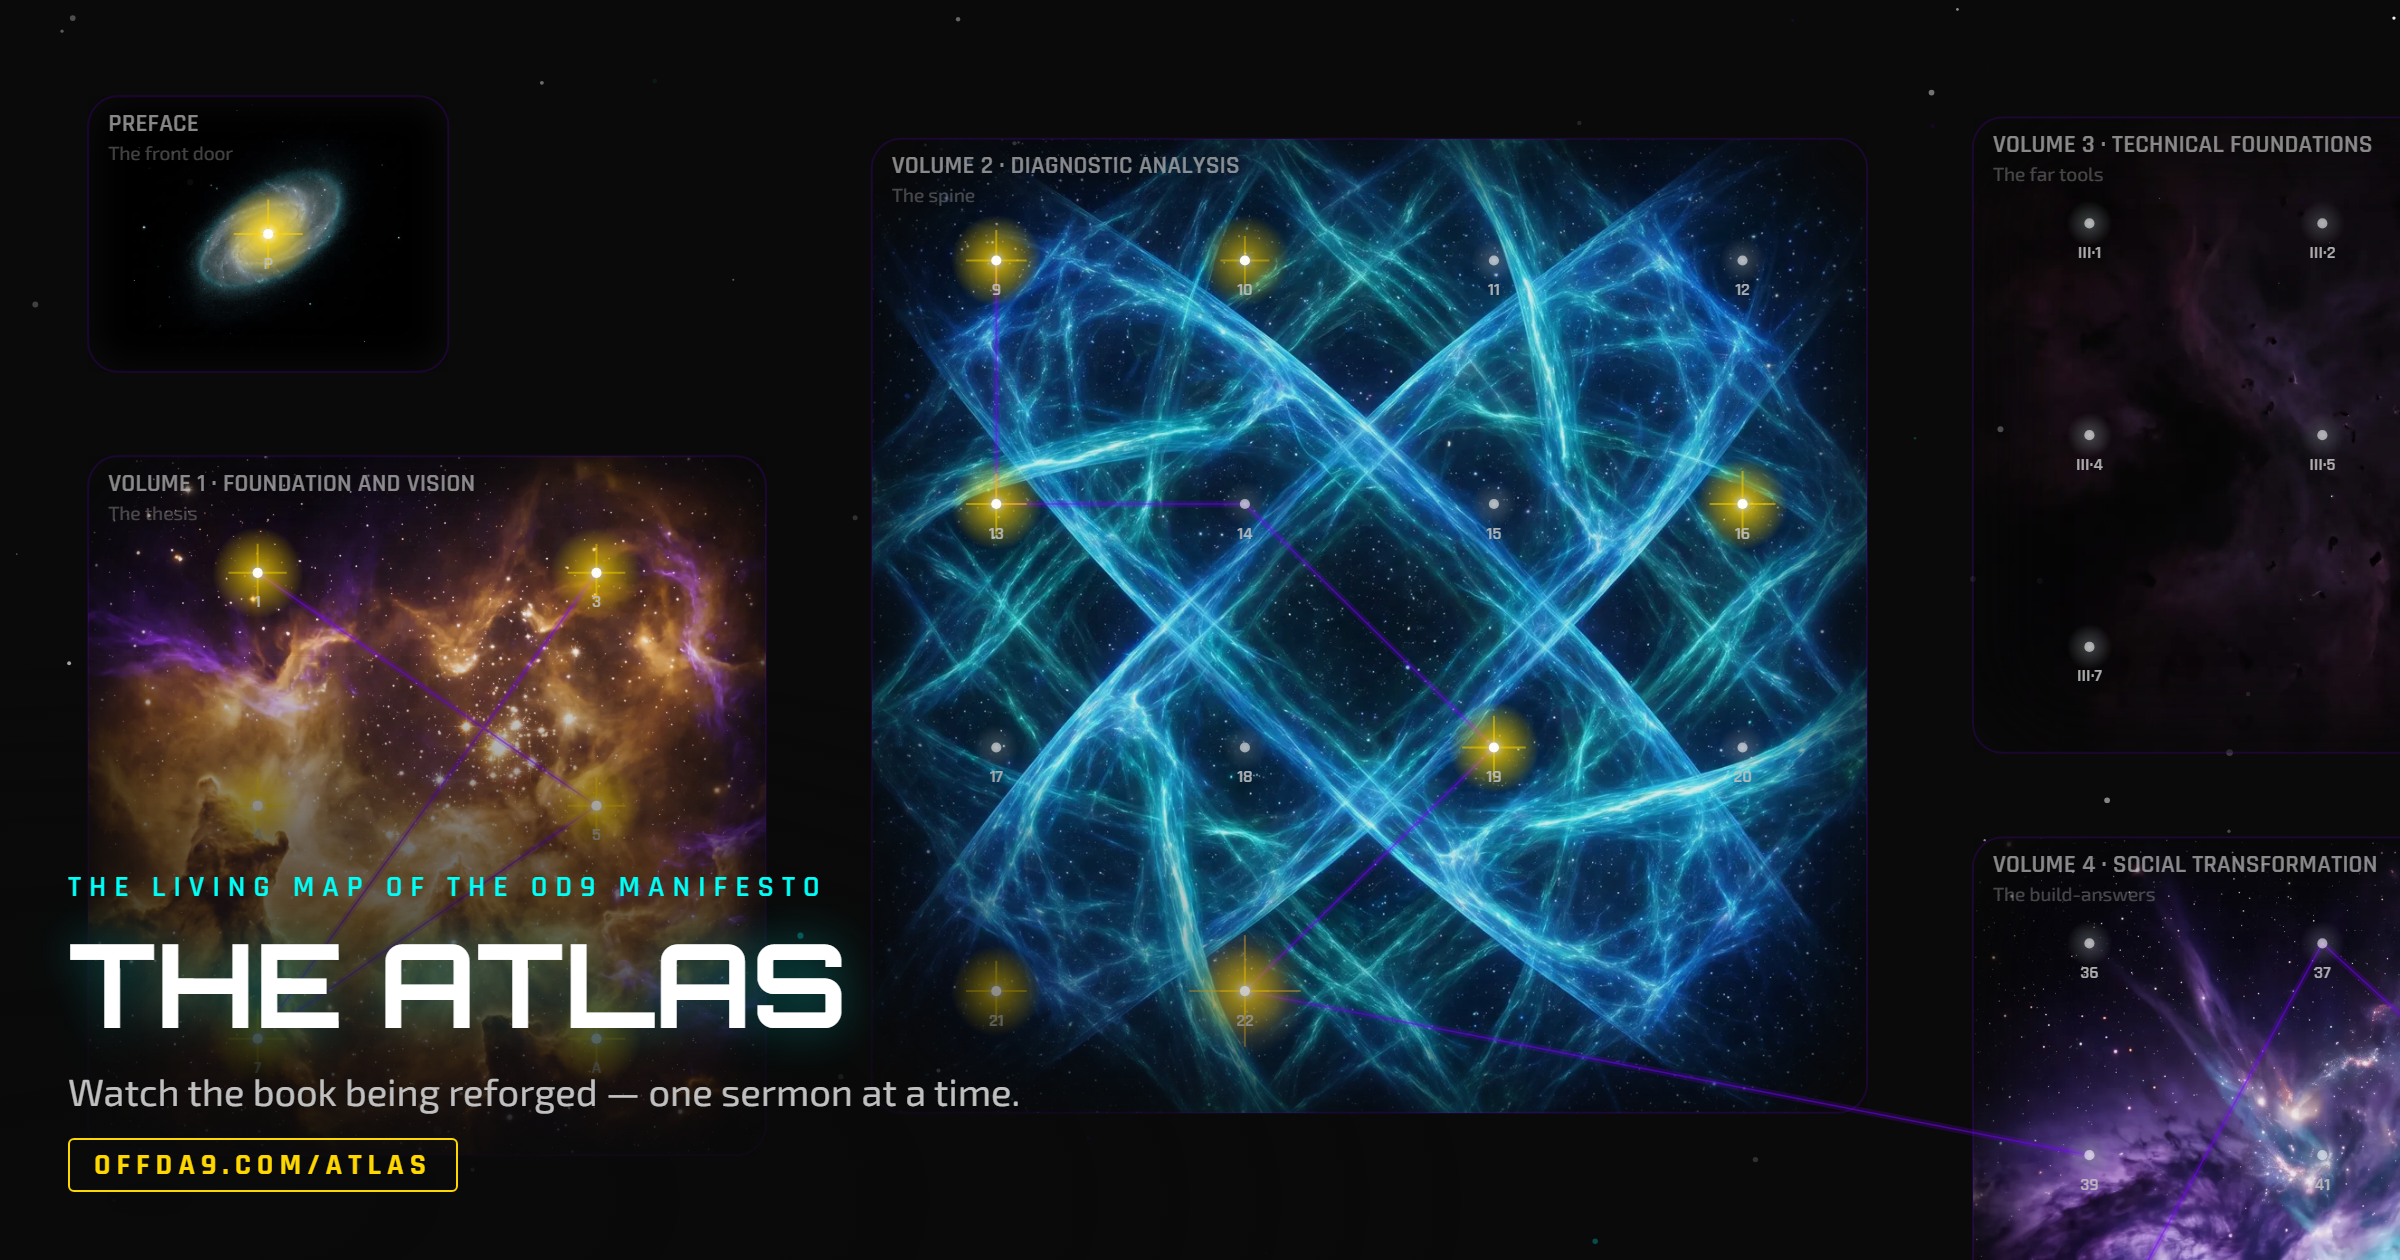
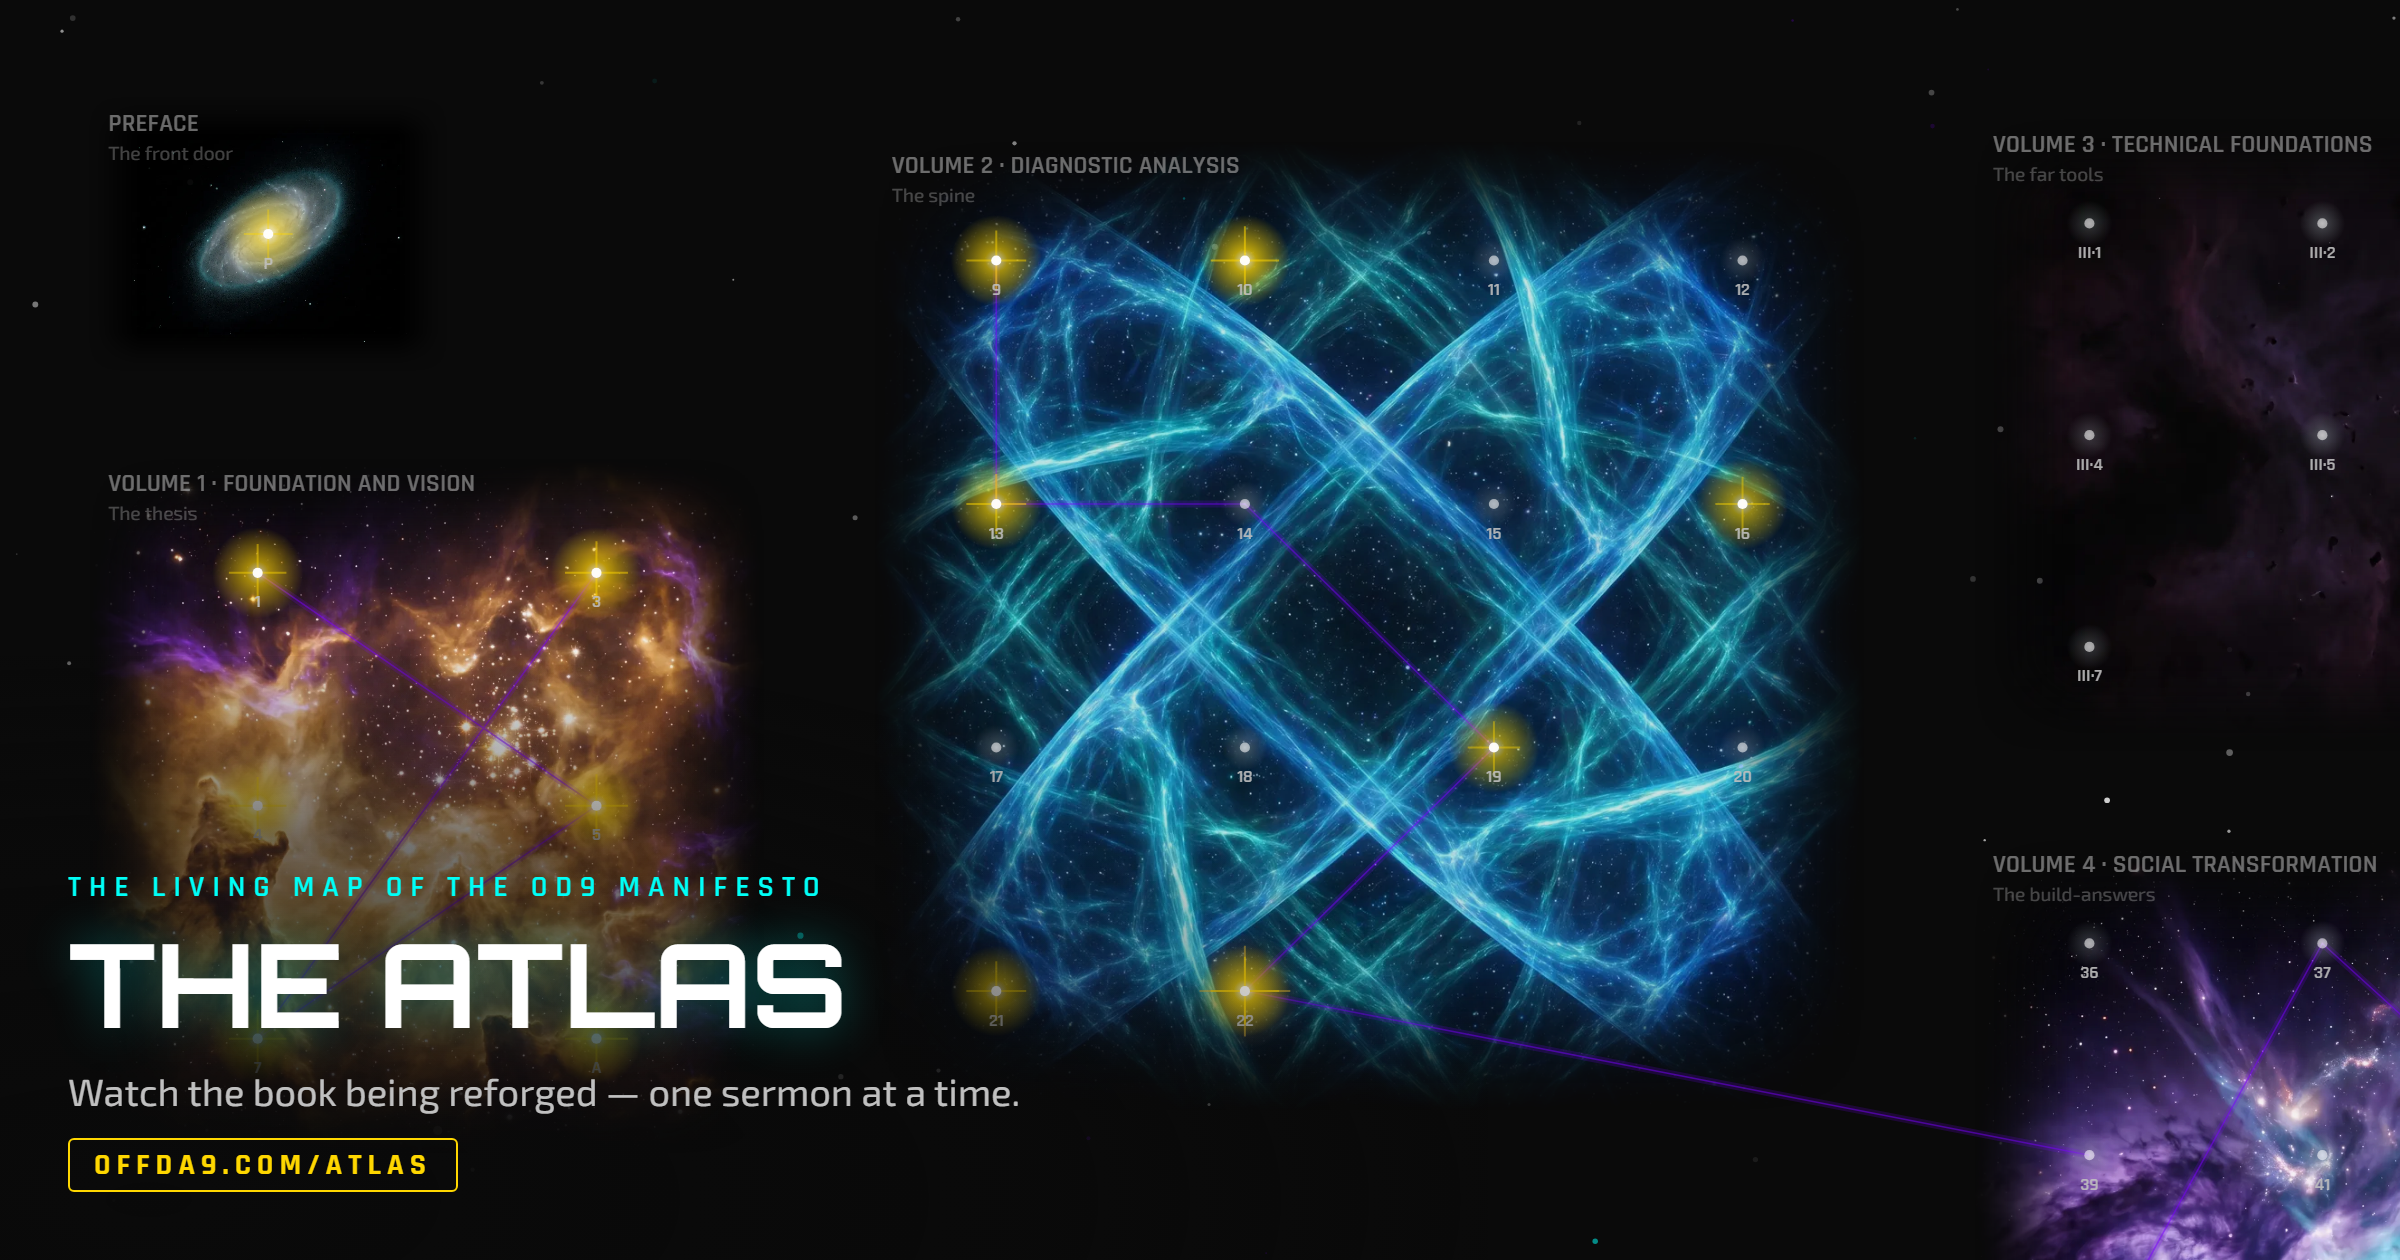
feat(atlas): the share card, reshot from the one-cosmos first frame
The og image dated from Aug 21 and still showed the framed volume tiles;
links on Discord and X carried a map that no longer exists. Reshot via
?og=1 at 2400x1260 from the live plate-first frame. The og block now
hides the stage's chrome — the four guide medallions, the live strip, the
arrival hint, the guide's line — so the card is the map, not its buttons.

Claude-Session: https://claude.ai/code/session_01AVmYoVDZo9CuagseXbdCxs

diff --git a/atlas.php b/atlas.php
@@ -260,7 +260,7 @@ $atlas_og_mode  = isset($_GET['og']);
 <style>
   /* og capture mode: the stage IS the frame — fixed fullscreen over all chrome */
   #atlas-stage{position:fixed;inset:0;z-index:99999;height:100vh;max-width:none;margin:0;border:none;border-radius:0}
-  .atlas-zoom{display:none}
+  .atlas-zoom,.atlas-guides,#atlas-live-strip,#atlas-arrival-hint,#atlas-guide-say{display:none}   /* the card is the map, not its chrome */
   #atlas-stage::after{content:"";position:absolute;left:0;bottom:0;width:62%;height:48%;background:radial-gradient(ellipse at 10% 90%, rgba(10,10,10,0.92), rgba(10,10,10,0.55) 48%, transparent 74%);z-index:4;pointer-events:none}
   .atlas-og-lockup{position:absolute;left:34px;bottom:34px;z-index:5;pointer-events:none}
   .atlas-og-lockup .e{font-family:'Rajdhani',sans-serif;font-weight:600;letter-spacing:4px;font-size:15px;color:var(--zone-cyan);text-transform:uppercase}
